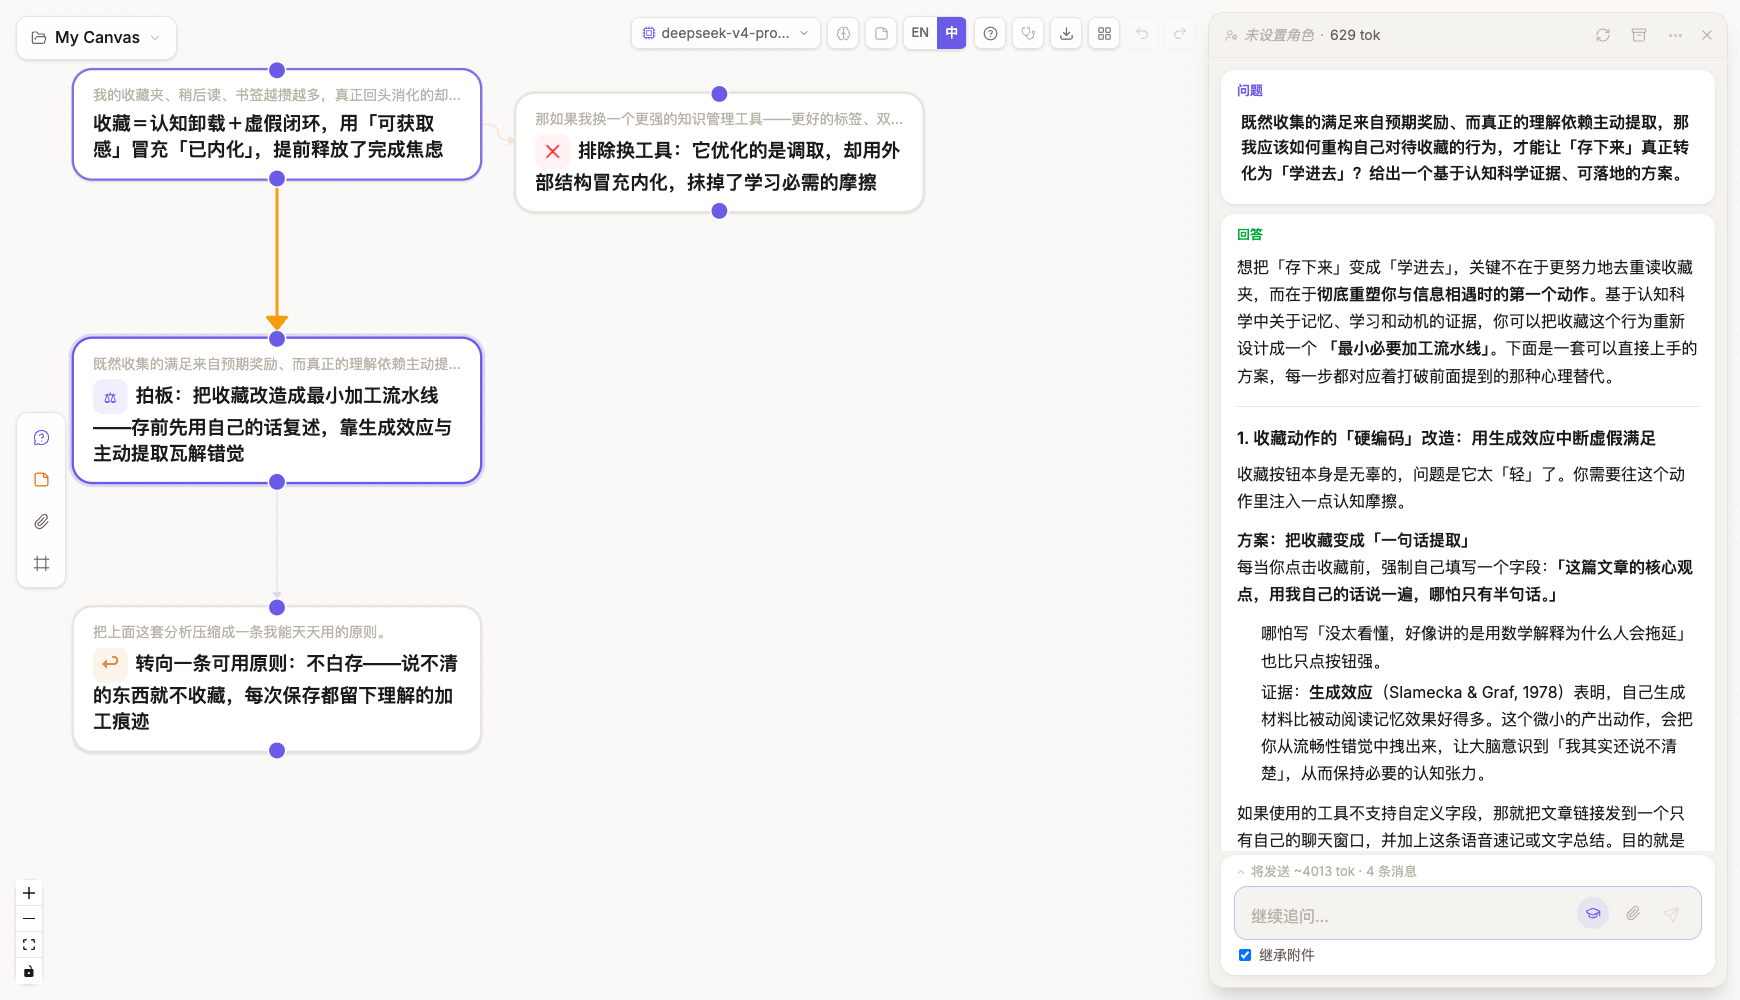
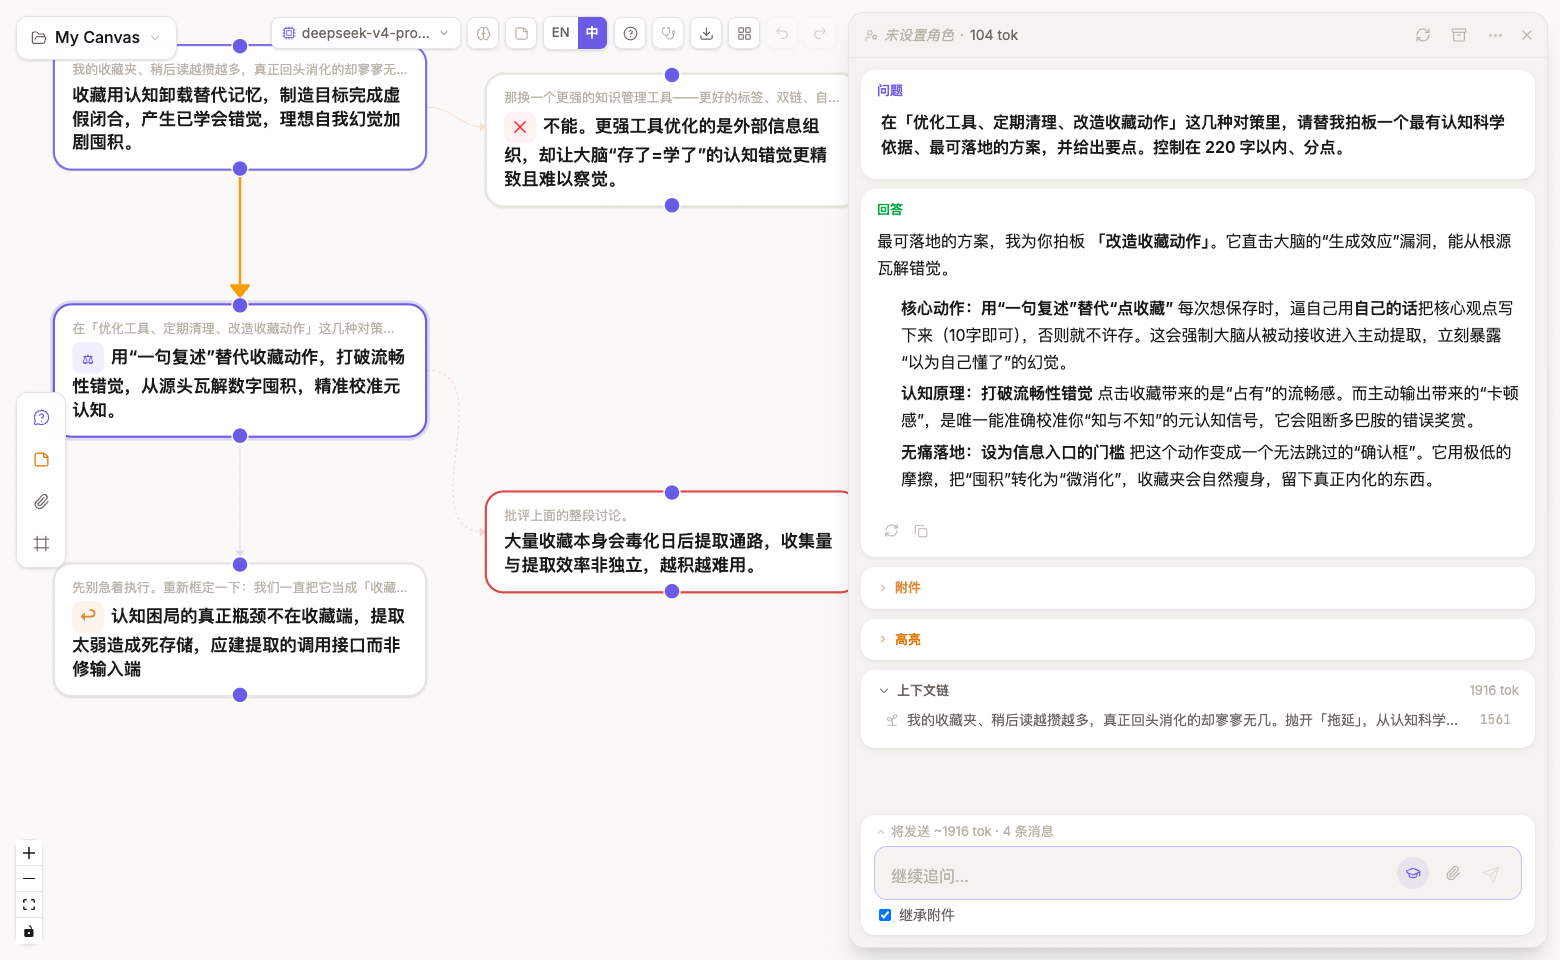
Hero: structured five-node map + real judge-assigned tags + wider panel
Addresses four issues with the previous hero:
- Structure back: five nodes with all three edge grammars — a
  conversation chain, an explore branch, and a reviewer on a dashed
  watch edge — instead of a flat cluster.
- Honest tags: the takeaway badges are now what the product's own judge
  really returned for these answers (insight / ruled out / decided /
  pivoted), not role labels I assigned by hand. Phrasing the questions
  so each cognitive move is explicit was enough for the judge to
  classify them; the reviewer wears the evaluator badge, not a takeaway
  one.
- Less dead space: the five nodes fill the left band.
- Wider panel (700px) with a length-bounded decision answer, so the
  panel's lower sections — attachments, highlights, the token-priced
  context chain — are visible, not just the answer.
Both images regenerated from fresh deepseek-v4-pro runs (zh/en).

diff --git a/README.md b/README.md
@@ -16,7 +16,7 @@ An infinite canvas where LLM conversations grow into an editable thought graph.
 
 [中文](./README_ZH.md) · [Quick start](#quick-start) · [Features](#features-at-a-glance) · [Models](#supported-models) · [Roadmap](#roadmap)
 
-<img src="docs/hero-en.png" alt="ThoughtDAG: on the left, a map of takeaway plaques badged by move (ruled out, decided, pivoted); on the right, the focus panel open on one node showing its full question and a deepseek-v4-pro answer on the cognitive science of why saved articles go unread, with the context it will send priced in tokens" width="100%"/>
+<img src="docs/hero-en.png" alt="ThoughtDAG: on the left, a five-node map — a conversation chain, an explore branch, and a reviewer on a dashed watch edge — with takeaway plaques badged by move (ruled out, decided, pivoted); on the right, the focus panel open on the decision node showing its full deepseek-v4-pro answer plus attachments, highlights and the context chain it will send, priced in tokens" width="100%"/>
 
 </div>
 

diff --git a/README_ZH.md b/README_ZH.md
@@ -16,7 +16,7 @@
 
 [English](./README.md) · [快速开始](#快速开始) · [功能总览](#功能总览) · [支持的模型](#支持的模型) · [Roadmap](#roadmap)
 
-<img src="docs/hero-zh.png" alt="ThoughtDAG：左侧是收获句门牌组成的地图，带徽章（排除、决策、转向）；右侧是打开的侧栏，展示某节点完整的问题，以及 deepseek-v4-pro 关于「收藏为何不读」的认知科学回答，将发送的上下文按 token 计价" width="100%"/>
+<img src="docs/hero-zh.png" alt="ThoughtDAG：左侧是五节点地图——对话主链、探索分支、红色虚线上的评审——收获句门牌带徽章（排除、决策、转向）；右侧是打开的侧栏，展示决策节点完整的 deepseek-v4-pro 回答，以及附件、高亮、将发送的上下文链，按 token 计价" width="100%"/>
 
 </div>
 
